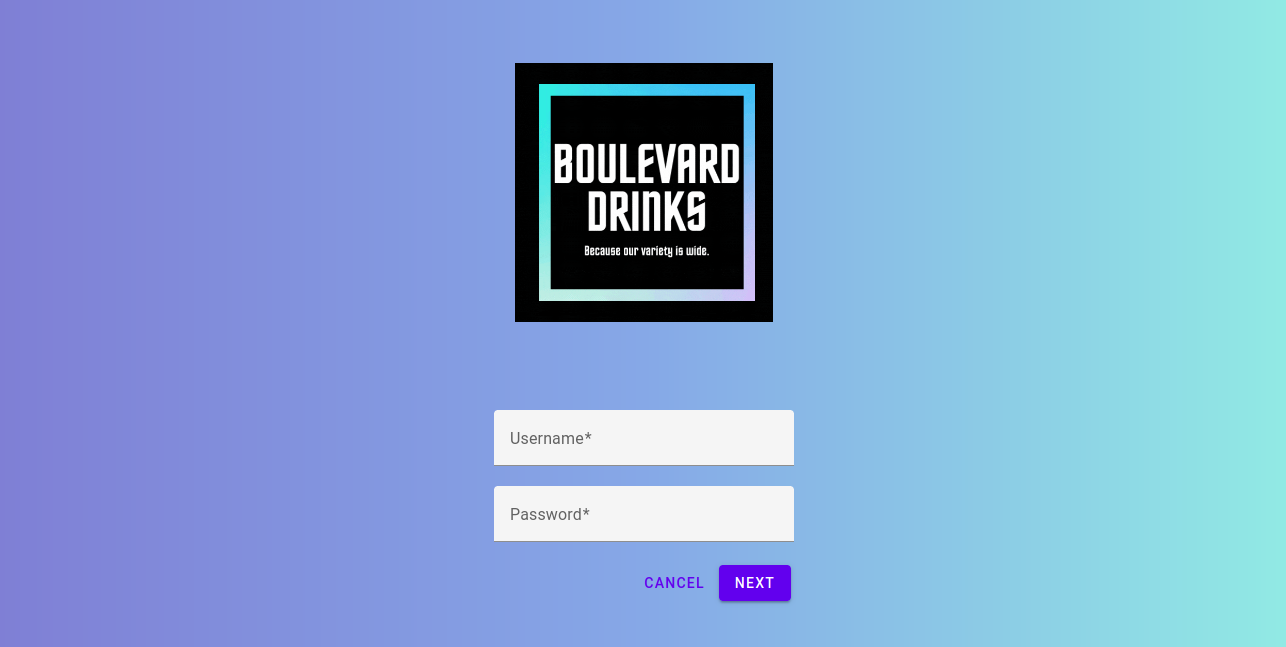
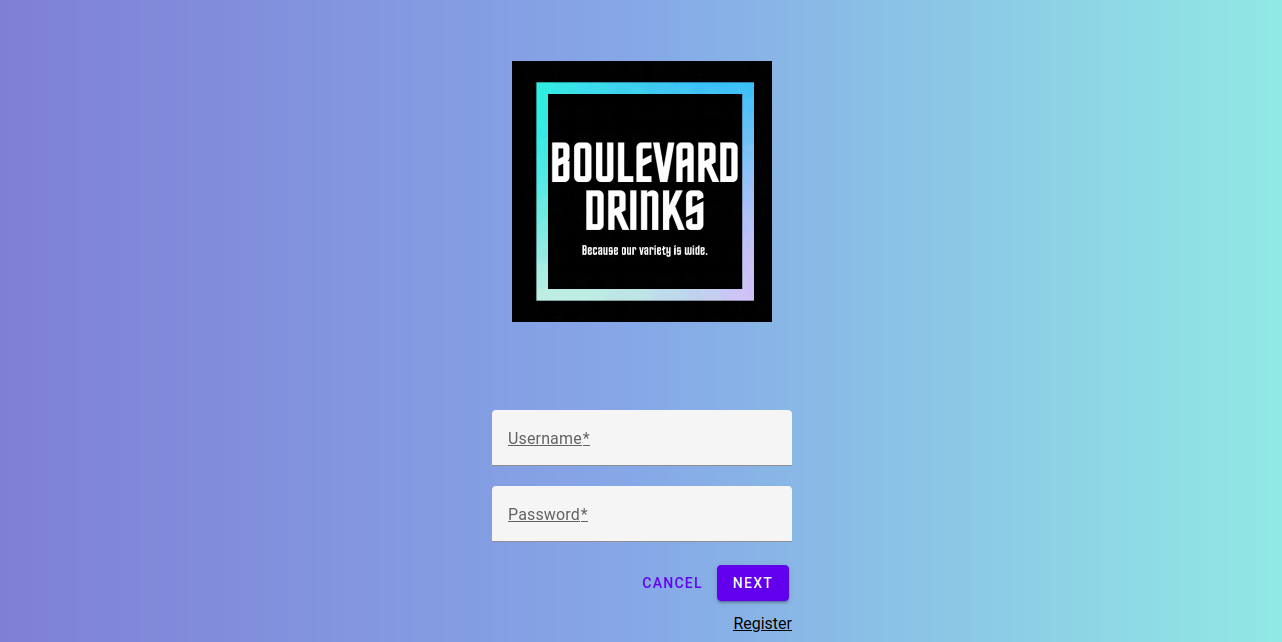
Add register button to login page

Changed region(s): [[0.4056, 0.1246, 0.5928, 0.4673], [0.3744, 0.6231, 0.624, 0.8411], [0.4992, 0.8723, 0.624, 0.9969]]

diff --git a/MockUp/loginPage/index.html b/MockUp/loginPage/index.html
@@ -8,11 +8,6 @@
   <link rel="stylesheet" href="https://cdnjs.cloudflare.com/ajax/libs/normalize/8.0.0/normalize.min.css">
   <link rel="stylesheet" href="https://fonts.googleapis.com/css?family=Roboto:300,400,500,700">
   <link rel="stylesheet" href="bundle-login.css">
-  <style>
-    .button-container .mdc-button{
-      background-color: #000000;
-    }
-    </style>
 </head>
 <body class="shrine-login" style="background:linear-gradient(to right,#7f7fd5,#86a8e7,#91eae4);
 width: 100%;">
@@ -47,6 +42,11 @@ width: 100%;">
           Next
         </span>
       </button>
+    </div>
+    <div class="link-container">
+      <label data-url="">
+        Register
+      </label>
     </div>
   </form>
 

diff --git a/MockUp/loginPage/login.scss b/MockUp/loginPage/login.scss
@@ -20,7 +20,8 @@
   margin: 20px auto;
 }
 
-.button-container {
+.button-container,
+.link-container {
   display: flex;
   justify-content: flex-end;
   width: 300px;
@@ -29,4 +30,12 @@
 
 .button-container button {
   margin: 3px;
+}
+
+label {
+  display: block;
+  margin-top: 10px;
+  text-decoration: underline;
+  cursor: pointer;
+  color: #000;
 }

diff --git a/MockUp/sellerAccountPage /index.html b/MockUp/sellerAccountPage /index.html
@@ -36,6 +36,9 @@
           <span class="mdc-list-item__text">Home</span>
         </a>
         <a class="mdc-list-item" href="#">
+          <span class="mdc-list-item__text">Add new product</span>
+        </a>
+        <a class="mdc-list-item" href="#">
           <span class="mdc-list-item__text">Logout</span>
         </a>
       </nav>
